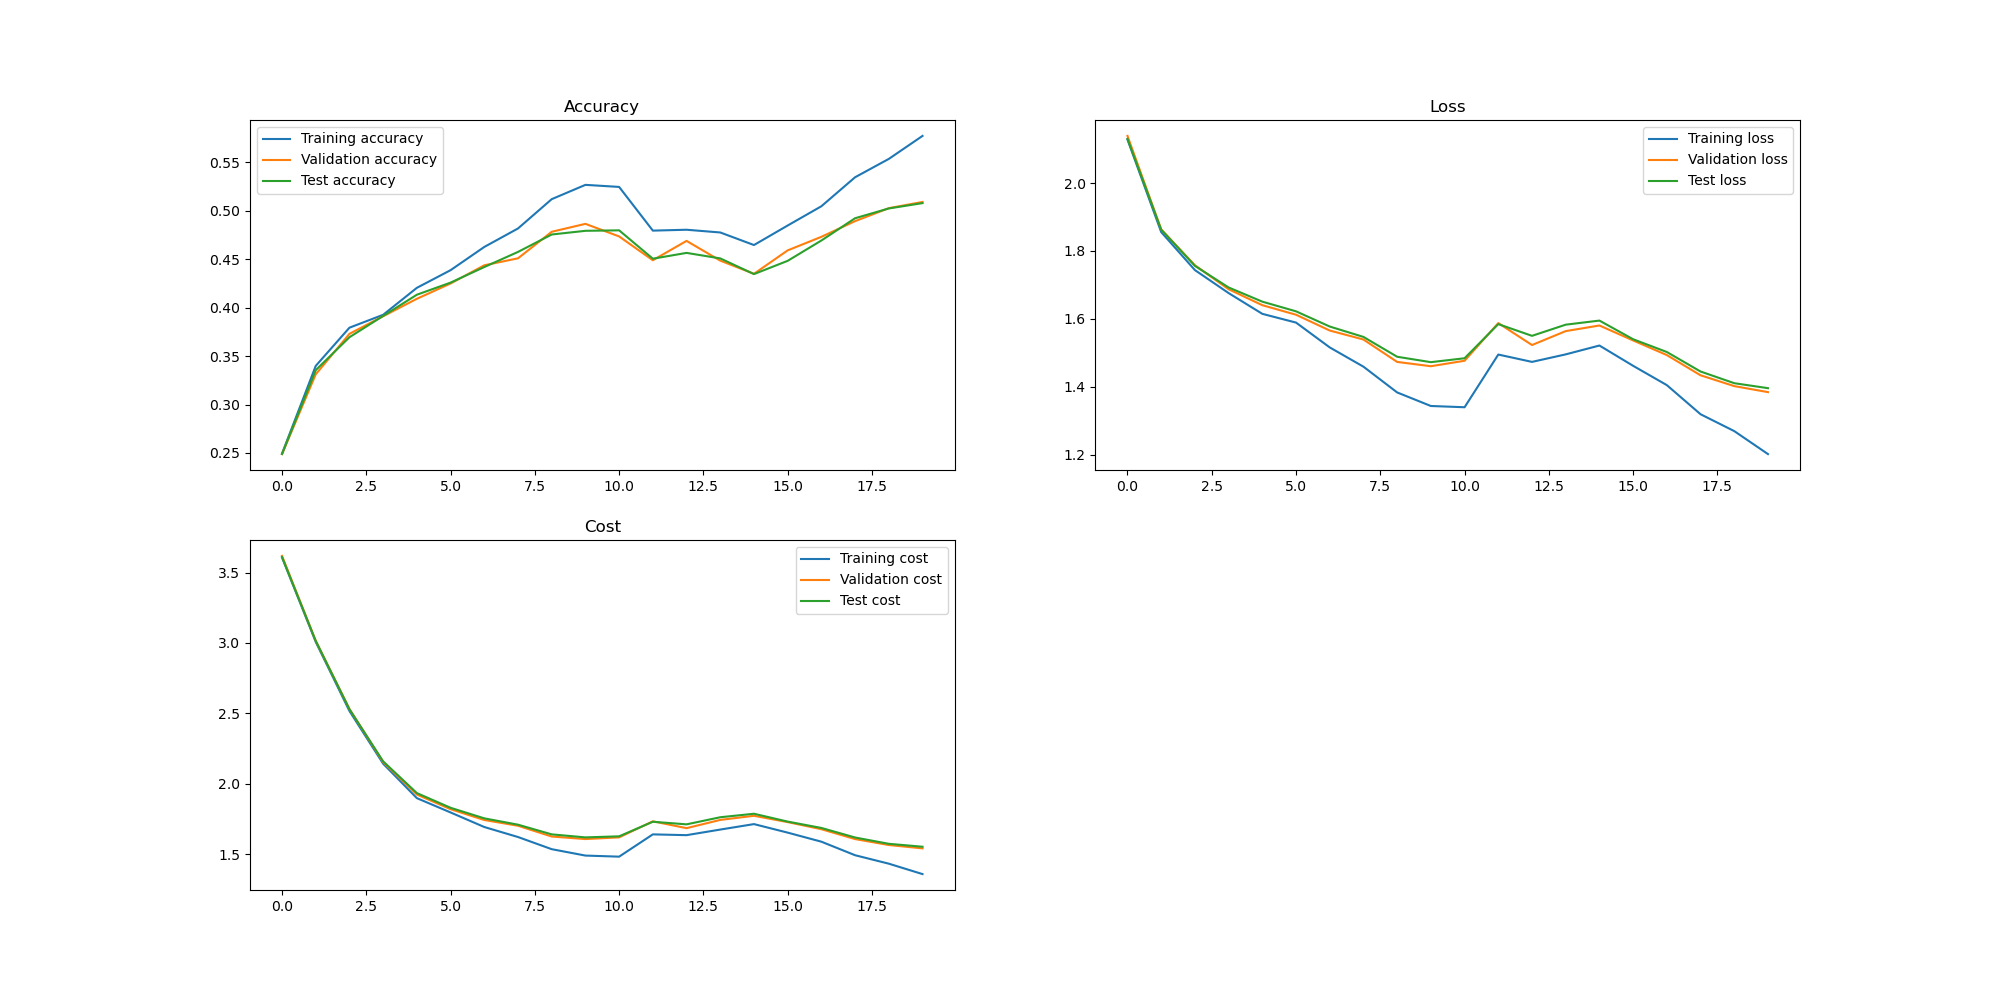
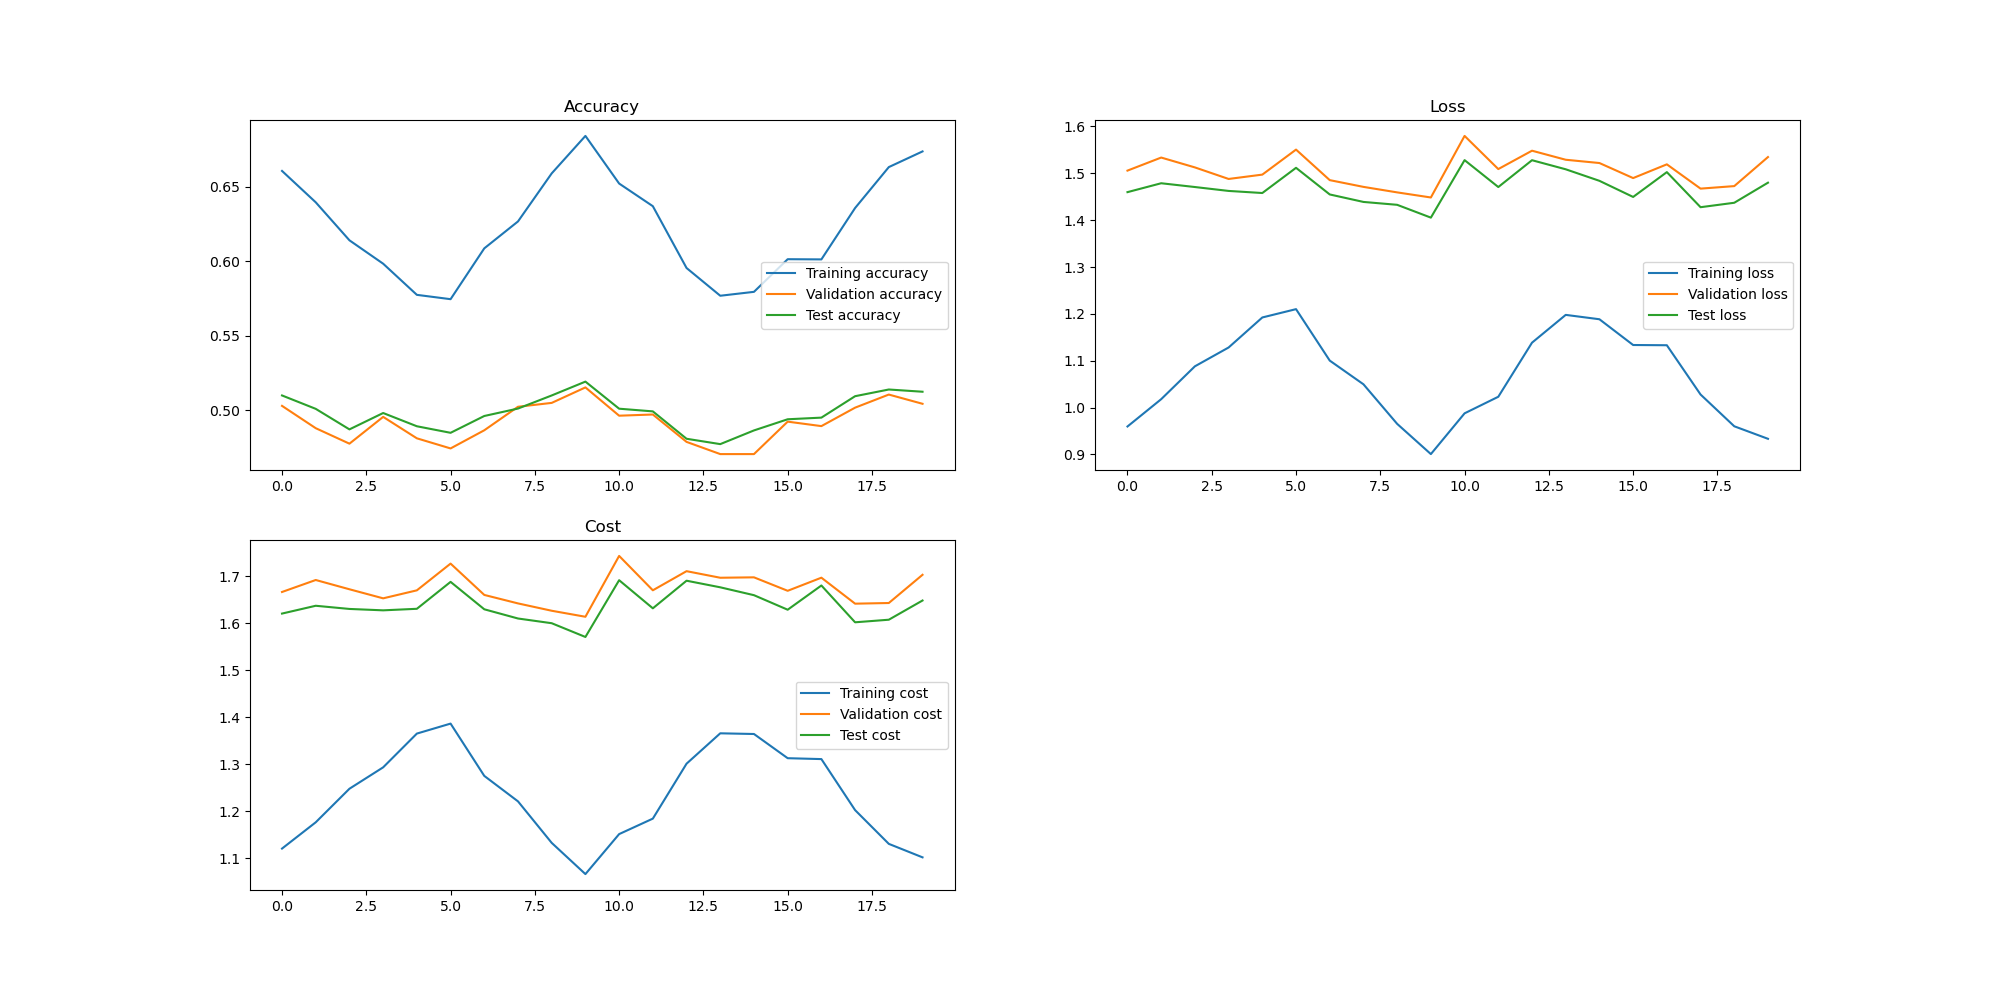
Finsihed lambda_search

diff --git a/Labs/Lab 3/lab3.py b/Labs/Lab 3/lab3.py
@@ -545,13 +545,13 @@ def lamba_search(data_train, data_val, data_test, weights, bias, labels_train, l
       'labels_val': labels_val,
       'labels_test': labels_test,
       'learning_rate': 0.0001,
-      'batch_size': 100,
+      'batch_size': 512,
       'cycles': 1,
       'do_plot': False,
       'do_batchNorm': do_batchNorm,
-      'name_of_file': "LabchNorm=False",
-      'gamma': None,
-      'beta': None,
+      'name_of_file': "search_lambda",
+      'gamma': gamma,
+      'beta': beta,
       'alpha': 0.9
   }
   
@@ -583,7 +583,12 @@ def lamba_search(data_train, data_val, data_test, weights, bias, labels_train, l
   if answer == "n":
     return lamda_list[np.argmax(acc_list)]
   elif answer == "y":
+    config['cycles'] = 2
+    config['data_train'] = data_train
+    config['labels_train'] = labels_train
+    config['batch_size'] = 100
     narrow_lambda_list = list()
+    narrow_acc_list = list()
     # Grab the three highst accuracies and their corresponding lambdas
     highest_acc = np.max(acc_list)
     highest_acc_index = np.argmax(acc_list)
@@ -609,14 +614,24 @@ def lamba_search(data_train, data_val, data_test, weights, bias, labels_train, l
       reguliser = narrow_lambda_list[i]
       print("Reguliser: ", reguliser)
       config['reguliser'] = reguliser
+      config['name_of_file'] = "Best_lambda_search"
       _, _, final_accuracy = sgd_minibatch(**config)
-      acc_list.append(final_accuracy)
-    
+      # The index of the narrow_acc_list corresponds to the index of narrow_lambda_list
+      narrow_acc_list.append(final_accuracy)
+  
+
     # The highest accuracy is the best
-    print("The highest accuracy is: ", np.max(acc_list))
-    print("The index of the highest accuracy is: ", np.argmax(acc_list))
-    print("The corresponding lambda is: ", narrow_lambda_list[np.argmax(acc_list)])
-    return narrow_lambda_list[np.argmax(acc_list)]
+    print("The highest accuracy is: ", np.max(narrow_acc_list))
+    print("The index of the highest accuracy is: ", np.argmax(narrow_acc_list))
+    print("The corresponding lambda is: ", narrow_lambda_list[np.argmax(narrow_acc_list)])
+
+    # Checking if it is better than the previous best
+    if np.max(narrow_acc_list) > highest_acc:
+      print("The narrow search was better than the previous search")
+      return narrow_lambda_list[np.argmax(narrow_acc_list)]
+    else:
+      print("The narrow search was not better than the previous search")
+      return highest_acc_lambda
 
 def main():
   #Getting started
@@ -644,7 +659,7 @@ def main():
 
   
   # Initialising the network
-  weights, bias, gamma, beta = init_network(data_train, [50, 50,10], he =True, Sigma =Sigma, do_batchNorm=do_batchNorm)
+  weights, bias, gamma, beta = init_network(data_train, [50, 30, 20, 20, 10, 10, 10, 10], he =True, Sigma =Sigma, do_batchNorm=do_batchNorm)
 
 
   # Comparing gradients
@@ -683,7 +698,7 @@ def main():
   print("Do you want to do a lamba search? (y/n)")
   answer = input()
   if answer == "y":
-    good_lambda = lamba_search(data_train, data_val, data_test, weights, bias, labels_train, labels_val, labels_test, do_batchNorm)
+    good_lambda = lamba_search(data_train, data_val, data_test, weights, bias, labels_train, labels_val, labels_test, gamma,beta, do_batchNorm)
     config['reguliser'] = good_lambda
   else:
     config['reguliser'] = 0.005
